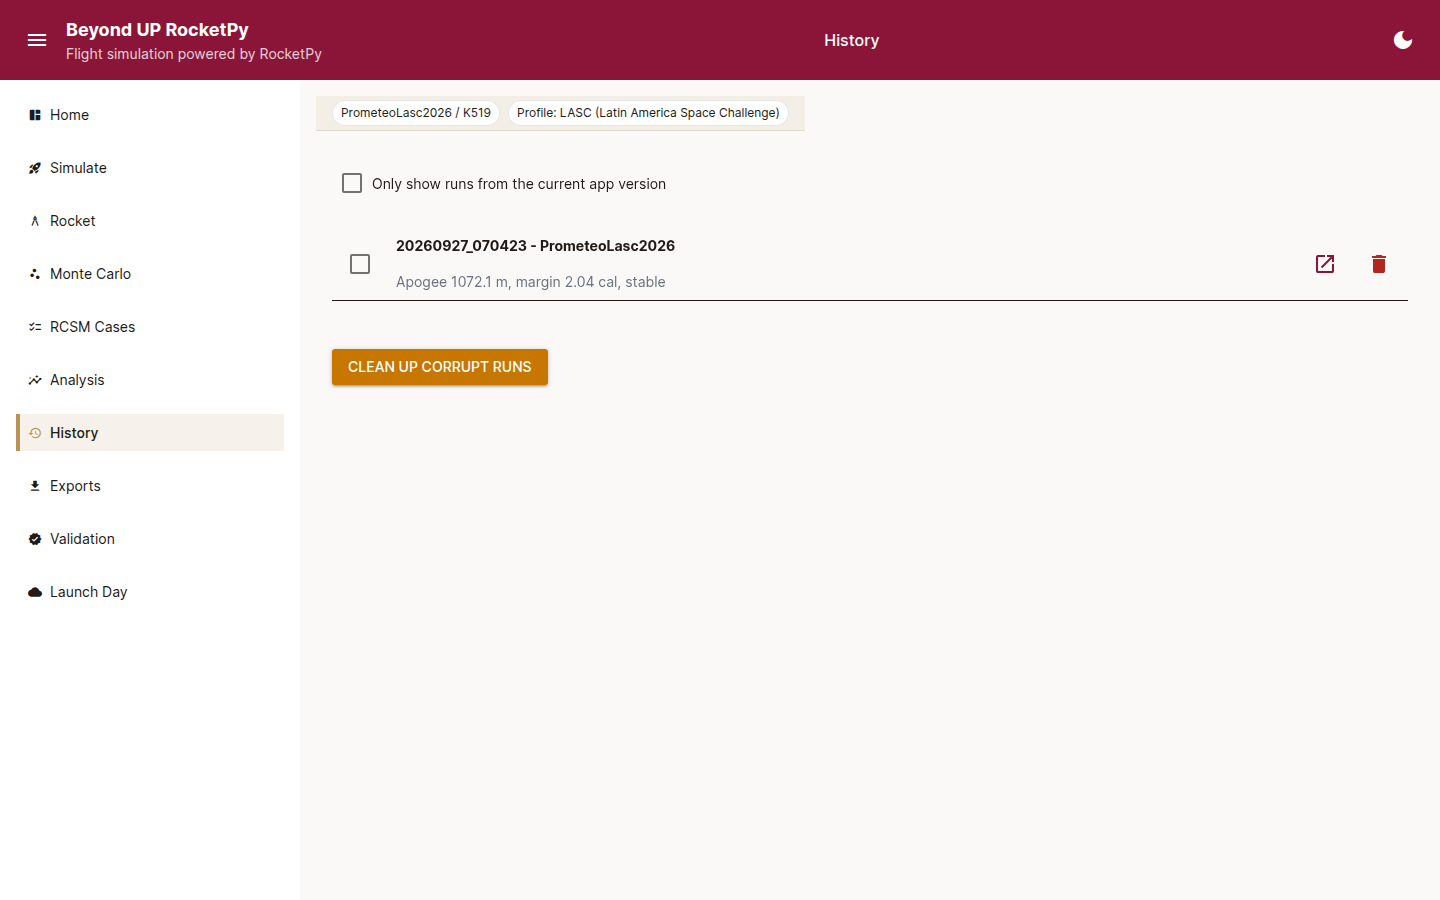
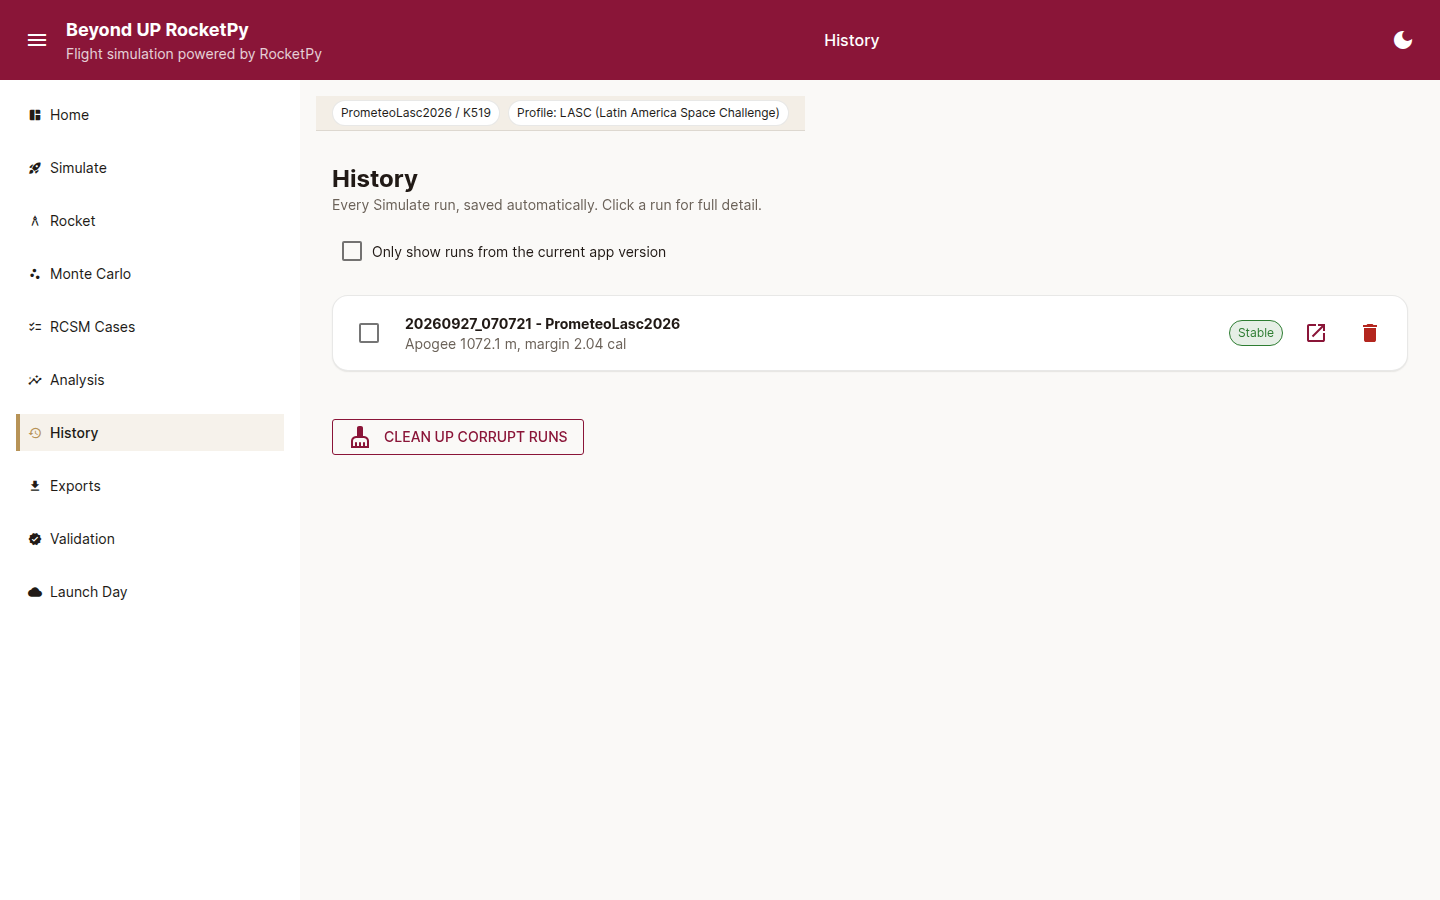
UI redesign: History page
- Each run is now a themed card (stagger entrance) with a Stable/Not
  stable status chip and an "Older app version" chip, instead of a
  bordered row with inline text.
- Delete confirmation now uses components.confirm_dialog - same
  per-click fresh-dialog pattern that originally fixed the "delete
  duplicates controls" bug (still builds a new dialog each click, still
  never re-renders the fixed one), just themed consistently.
- Detail page: KPI cards, a "Settings used"/"Files used"/"Plots"/
  "Notes" card layout, "Reopen this mission" as the page header's
  primary action.
- Compare panel wrapped in a card.

Full suite: test_phase0_e2e_full.py 3/3 green - includes the delete-
duplication regression test and the detail-page/reopen-mission text
check, both still passing unchanged.

Claude-Session: https://claude.ai/code/session_01RHCgNw4tm9jk7r5jJja457

diff --git a/bup_rocketpy/gui/pages/history_page.py b/bup_rocketpy/gui/pages/history_page.py
@@ -7,7 +7,7 @@ import os
 
 from nicegui import ui
 
-from bup_rocketpy.gui import layout, state
+from bup_rocketpy.gui import components, layout, state
 from bup_rocketpy import run_history
 
 REPO_ROOT = os.path.dirname(os.path.dirname(os.path.dirname(os.path.dirname(os.path.abspath(__file__)))))
@@ -54,12 +54,13 @@ def _reopen_mission(run_id):
 @ui.page("/history")
 def history_page():
     with layout.layout("History", current_path="/history"):
+        components.page_header("History", "Every Simulate run, saved automatically. Click a run for full detail.")
         records, warnings = run_history.list_runs(REPO_ROOT)
         for w in warnings:
-            ui.label(f"⚠ {w}").classes("text-orange-600 text-sm")
+            components.status_chip(w, "warning")
 
         if not records:
-            ui.label("No runs saved yet - every Simulate on the Simulate page is saved here automatically.").classes("text-gray-500")
+            components.empty_state("history", "No runs saved yet - every Simulate on the Simulate page is saved here automatically.", action_label="Go to Simulate", on_action=lambda: ui.navigate.to("/simulate"))
             return
 
         current_hash = run_history.current_app_commit_hash(REPO_ROOT)
@@ -78,14 +79,16 @@ def history_page():
                 if ra is None or rb is None:
                     ui.label("Could not load one of the selected runs.").classes("text-red-600")
                     return
-                with ui.grid(columns=3).classes("gap-4"):
-                    ui.label("Field").classes("font-bold")
-                    ui.label(ra.run_id).classes("font-bold")
-                    ui.label(rb.run_id).classes("font-bold")
-                    for field, fmt in [("apogee_agl_m", "{:.1f} m"), ("max_speed_ms", "{:.1f} m/s"), ("min_static_margin_cal", "{:.2f} cal"), ("dry_mass_kg", "{:.4f} kg")]:
-                        ui.label(field)
-                        ui.label(fmt.format(getattr(ra, field)))
-                        ui.label(fmt.format(getattr(rb, field)))
+                with components.card(classes="w-full"):
+                    ui.label("Compare").classes("font-bold")
+                    with ui.grid(columns=3).classes("gap-4 w-full mt-1"):
+                        ui.label("Field").classes("font-bold")
+                        ui.label(ra.run_id).classes("font-bold")
+                        ui.label(rb.run_id).classes("font-bold")
+                        for field, fmt in [("apogee_agl_m", "{:.1f} m"), ("max_speed_ms", "{:.1f} m/s"), ("min_static_margin_cal", "{:.2f} cal"), ("dry_mass_kg", "{:.4f} kg")]:
+                            ui.label(field).style("color: var(--bup-muted)")
+                            ui.label(fmt.format(getattr(ra, field)))
+                            ui.label(fmt.format(getattr(rb, field)))
 
         def render_table():
             table_container.clear()
@@ -94,40 +97,41 @@ def history_page():
                 if not shown:
                     ui.label("No runs match this filter.").classes("text-gray-500")
                     return
-                for r in shown:
-                    with ui.row().classes("items-center gap-3 w-full p-2 border-b"):
-                        ui.checkbox(value=r.run_id in compare_selection).classes("mr-1").on_value_change(
-                            lambda e, run_id=r.run_id: _toggle_compare(run_id, e.value)
-                        )
-                        with ui.column().classes("cursor-pointer flex-grow").on("click", lambda run_id=r.run_id: ui.navigate.to(f"/history/{run_id}")):
-                            ui.label(f"{r.run_id} - {r.vehicle_name}").classes("font-bold")
-                            older = " (OLDER APP VERSION)" if r.app_commit_hash not in (current_hash, "unknown") else ""
-                            ui.label(f"Apogee {r.apogee_agl_m:.1f} m, margin {r.min_static_margin_cal:.2f} cal, {'stable' if r.is_stable else 'NOT stable'}{older}").classes("text-sm text-gray-500")
-                        ui.button(icon="open_in_new", on_click=lambda run_id=r.run_id: ui.navigate.to(f"/history/{run_id}")).props("flat round").tooltip("View detail")
+                for i, r in enumerate(shown):
+                    with components.card(classes="w-full", stagger_index=i):
+                        with ui.row().classes("items-center gap-3 w-full"):
+                            ui.checkbox(value=r.run_id in compare_selection).classes("mr-1").on_value_change(
+                                lambda e, run_id=r.run_id: _toggle_compare(run_id, e.value)
+                            )
+                            with ui.column().classes("cursor-pointer flex-grow gap-0").on("click", lambda run_id=r.run_id: ui.navigate.to(f"/history/{run_id}")):
+                                ui.label(f"{r.run_id} - {r.vehicle_name}").classes("font-bold")
+                                ui.label(f"Apogee {r.apogee_agl_m:.1f} m, margin {r.min_static_margin_cal:.2f} cal").classes("text-sm").style("color: var(--bup-muted)")
+                            components.status_chip("Stable" if r.is_stable else "Not stable", "success" if r.is_stable else "bad")
+                            if r.app_commit_hash not in (current_hash, "unknown"):
+                                components.status_chip("Older app version", "warning")
+                            ui.button(icon="open_in_new", on_click=lambda run_id=r.run_id: ui.navigate.to(f"/history/{run_id}")).props("flat round").tooltip("View detail")
 
-                        def make_delete(run_id):
-                            def confirm_delete():
-                                run_history.delete_run(REPO_ROOT, run_id)
-                                ui.notify(f"Deleted {run_id}")
-                                nonlocal records
-                                records[:] = [rec for rec in records if rec.run_id != run_id]
-                                if run_id in compare_selection:
-                                    compare_selection.remove(run_id)
-                                dialog.close()
-                                render_table()
-                                render_compare()
+                            def make_delete(run_id):
+                                dialog, confirm_btn = components.confirm_dialog(f"Delete run '{run_id}'? This cannot be undone.")
 
-                            with ui.dialog() as dialog, ui.card():
-                                ui.label(f"Delete run '{run_id}'? This cannot be undone.")
-                                with ui.row():
-                                    ui.button("Cancel", on_click=dialog.close)
-                                    ui.button("Delete", color="negative", on_click=confirm_delete)
-                            dialog.open()
+                                def confirm_delete():
+                                    run_history.delete_run(REPO_ROOT, run_id)
+                                    ui.notify(f"Deleted {run_id}")
+                                    nonlocal records
+                                    records[:] = [rec for rec in records if rec.run_id != run_id]
+                                    if run_id in compare_selection:
+                                        compare_selection.remove(run_id)
+                                    dialog.close()
+                                    render_table()
+                                    render_compare()
 
-                        ui.button(icon="delete", on_click=lambda run_id=r.run_id: make_delete(run_id)).props("flat round color=negative").tooltip("Delete")
+                                confirm_btn.on_click(confirm_delete)
+                                dialog.open()
+
+                            ui.button(icon="delete", on_click=lambda run_id=r.run_id: make_delete(run_id)).props("flat round color=negative").tooltip("Delete")
 
                 if any(r.app_commit_hash not in (current_hash, "unknown") for r in shown):
-                    ui.label(f"Some runs above were made with an OLDER app version than the one running now ({current_hash}) - re-run them if you need numbers comparable to today's.").classes("text-orange-600 text-sm mt-1")
+                    components.status_chip(f"Some runs above were made with an OLDER app version than the one running now ({current_hash}) - re-run them if you need numbers comparable to today's.", "warning")
 
         def _toggle_compare(run_id, checked):
             if checked:
@@ -149,7 +153,7 @@ def history_page():
                 nonlocal records
                 records, _ = run_history.list_runs(REPO_ROOT)
                 render_table()
-            ui.button("Clean up corrupt runs", on_click=do_cleanup, color="warning")
+            components.button("Clean up corrupt runs", kind="secondary", icon="cleaning_services", on_click=do_cleanup)
 
         render_table()
 
@@ -159,67 +163,62 @@ def history_detail_page(run_id: str):
     with layout.layout(f"History - {run_id}", current_path="/history"):
         record = run_history.get_run(REPO_ROOT, run_id)
         if record is None:
-            ui.label(f"Run '{run_id}' not found (it may have been deleted).").classes("text-red-600")
+            components.page_header("Run not found", f"'{run_id}' may have been deleted.")
             ui.link("Back to History", "/history")
             return
 
         current_hash = run_history.current_app_commit_hash(REPO_ROOT)
         ui.link("< Back to History", "/history").classes("text-sm")
-        ui.label(f"{record.vehicle_name} - {run_id}").classes("text-xl font-bold mt-2")
-        ui.label(record.timestamp).classes("text-sm text-gray-500")
+        components.page_header(f"{record.vehicle_name} - {run_id}", record.timestamp, action_label="Reopen this mission", action_icon="restart_alt", on_action=lambda: _reopen_mission(run_id))
         if record.app_commit_hash not in (current_hash, "unknown"):
-            ui.label(f"Made with an OLDER app version ({record.app_commit_hash}) than the one running now ({current_hash}) - reopen and re-run for numbers comparable to today's.").classes("bup-provisional-badge px-3 py-1 rounded font-bold inline-block")
-
-        ui.button("Reopen this mission", on_click=lambda: _reopen_mission(run_id), color="primary").classes("mt-2")
+            components.status_chip(f"Made with an OLDER app version ({record.app_commit_hash}) than the one running now ({current_hash}) - reopen and re-run for numbers comparable to today's.", "warning")
         if not record.ork_saved:
-            ui.label("This run predates mission persistence - no saved .ork, so it can't be reopened (view only).").classes("text-xs text-orange-600")
+            components.status_chip("This run predates mission persistence - no saved .ork, so it can't be reopened (view only).", "warning")
 
         ui.label("Results").classes("text-lg font-bold mt-4")
-        with ui.grid(columns=4).classes("gap-4"):
-            for label, value in [
-                ("Apogee AGL", f"{record.apogee_agl_m:.1f} m"),
-                ("Max speed", f"{record.max_speed_ms:.1f} m/s"),
-                ("Max Mach", f"{record.max_mach:.2f}" + (" EXTRAPOLATED" if record.mach_extrapolated else "") if record.max_mach is not None else "-"),
-                ("Min static margin", f"{record.min_static_margin_cal:.2f} cal"),
-                ("Stable?", "YES" if record.is_stable else "NO"),
-                ("Dry mass / CG", f"{record.dry_mass_kg:.4f} kg / {record.dry_cg_m:.4f} m"),
-            ]:
-                with ui.card():
-                    ui.label(label).classes("text-xs text-gray-500")
-                    ui.label(value).classes("text-lg font-bold")
+        with ui.grid(columns=4).classes("gap-3 w-full"):
+            components.kpi_card("Apogee AGL", f"{record.apogee_agl_m:.1f}", "m", status="neutral", stagger_index=0)
+            components.kpi_card("Max speed", f"{record.max_speed_ms:.1f}", "m/s", status="neutral", stagger_index=1)
+            components.kpi_card("Max Mach", (f"{record.max_mach:.2f}" + (" EXTRAPOLATED" if record.mach_extrapolated else "")) if record.max_mach is not None else "-", "", status="warn" if record.mach_extrapolated else "neutral", stagger_index=2)
+            components.kpi_card("Min static margin", f"{record.min_static_margin_cal:.2f}", "cal", status="good" if record.is_stable else "bad", stagger_index=3)
+            components.kpi_card("Stable?", "YES" if record.is_stable else "NO", "", status="good" if record.is_stable else "bad", stagger_index=4)
+            components.kpi_card("Dry mass / CG", f"{record.dry_mass_kg:.4f} kg / {record.dry_cg_m:.4f} m", "", status="neutral", stagger_index=5)
 
-        ui.label("Settings used").classes("text-lg font-bold mt-4")
-        with ui.grid(columns=3).classes("gap-4"):
-            for label, value in [
-                ("Mass/CG override", f"{record.dry_mass_override_kg:.4f} kg / {record.dry_cg_override_m:.4f} m" if record.dry_mass_override_kg is not None else "none (used the best-available estimate)"),
-                ("Weather override", "active" if record.launch_override else "none (.ork's own recorded conditions)"),
-                ("Competition profile", record.competition_profile or "lasc"),
-                ("Site (lat, lon)", f"{record.site_lat:.3f}, {record.site_lon:.3f}" if record.site_lat is not None else "-"),
-                ("Motor", record.motor_designation or "-"),
-                ("Drag curve source", record.drag_curve_source or "-"),
-            ]:
-                with ui.card():
-                    ui.label(label).classes("text-xs text-gray-500")
-                    ui.label(value).classes("text-md font-bold")
+        with components.card(classes="w-full mt-4"):
+            ui.label("Settings used").classes("font-bold")
+            with ui.grid(columns=3).classes("gap-4 w-full mt-1"):
+                for label, value in [
+                    ("Mass/CG override", f"{record.dry_mass_override_kg:.4f} kg / {record.dry_cg_override_m:.4f} m" if record.dry_mass_override_kg is not None else "none (used the best-available estimate)"),
+                    ("Weather override", "active" if record.launch_override else "none (.ork's own recorded conditions)"),
+                    ("Competition profile", record.competition_profile or "lasc"),
+                    ("Site (lat, lon)", f"{record.site_lat:.3f}, {record.site_lon:.3f}" if record.site_lat is not None else "-"),
+                    ("Motor", record.motor_designation or "-"),
+                    ("Drag curve source", record.drag_curve_source or "-"),
+                ]:
+                    with ui.column().classes("gap-0"):
+                        ui.label(label).classes("text-xs").style("color: var(--bup-muted)")
+                        ui.label(value).classes("text-sm font-bold")
 
         if record.reefing_settings:
             reefed = [c for c in record.reefing_settings if c.get("is_reefed")]
             if reefed:
-                ui.label("Reefed parachutes").classes("text-md font-bold mt-2")
-                for c in reefed:
-                    ui.label(f"{c['name']}: reefed {c['reefed_diameter_m']:.2f} m / Cd {c['reefed_cd']:.2f}, cutter at {c['cutter_altitude_m']:.0f} m AGL").classes("text-sm")
+                with components.card(classes="w-full mt-4"):
+                    ui.label("Reefed parachutes").classes("font-bold")
+                    for c in reefed:
+                        ui.label(f"{c['name']}: reefed {c['reefed_diameter_m']:.2f} m / Cd {c['reefed_cd']:.2f}, cutter at {c['cutter_altitude_m']:.0f} m AGL").classes("text-sm")
 
-        ui.label("Files used").classes("text-lg font-bold mt-4")
-        with ui.grid(columns=2).classes("gap-4"):
-            for label, value in [
-                (".ork", f"{record.ork_filename} ({'saved' if record.ork_saved else 'not saved with this run'})"),
-                (".eng", record.eng_filename),
-                ("App version", record.app_commit_hash),
-                ("File hashes (.ork/.eng)", f"{record.ork_file_hash or '-'} / {record.eng_file_hash or '-'}"),
-            ]:
-                with ui.card():
-                    ui.label(label).classes("text-xs text-gray-500")
-                    ui.label(str(value)).classes("text-sm font-bold")
+        with components.card(classes="w-full mt-4"):
+            ui.label("Files used").classes("font-bold")
+            with ui.grid(columns=2).classes("gap-4 w-full mt-1"):
+                for label, value in [
+                    (".ork", f"{record.ork_filename} ({'saved' if record.ork_saved else 'not saved with this run'})"),
+                    (".eng", record.eng_filename),
+                    ("App version", record.app_commit_hash),
+                    ("File hashes (.ork/.eng)", f"{record.ork_file_hash or '-'} / {record.eng_file_hash or '-'}"),
+                ]:
+                    with ui.column().classes("gap-0"):
+                        ui.label(label).classes("text-xs").style("color: var(--bup-muted)")
+                        ui.label(str(value)).classes("text-sm font-bold")
 
         run_dir = run_history.run_dir_path(REPO_ROOT, run_id)
         csv_path = os.path.join(run_dir, "flight_data.csv")
@@ -228,11 +227,13 @@ def history_detail_page(run_id: str):
 
         plot_files = sorted(glob.glob(os.path.join(run_dir, "*.png")))
         if plot_files:
-            ui.label("Plots").classes("text-lg font-bold mt-4")
-            with ui.grid(columns=2).classes("gap-4"):
-                for path in plot_files:
-                    ui.image(path).classes("w-full")
+            with components.card(classes="w-full mt-4"):
+                ui.label("Plots").classes("font-bold")
+                with ui.grid(columns=2).classes("gap-4 w-full mt-1"):
+                    for path in plot_files:
+                        ui.image(path).classes("w-full")
 
         if record.notes:
-            ui.label("Notes").classes("text-lg font-bold mt-4")
-            ui.label(record.notes)
+            with components.card(classes="w-full mt-4"):
+                ui.label("Notes").classes("font-bold")
+                ui.label(record.notes)
